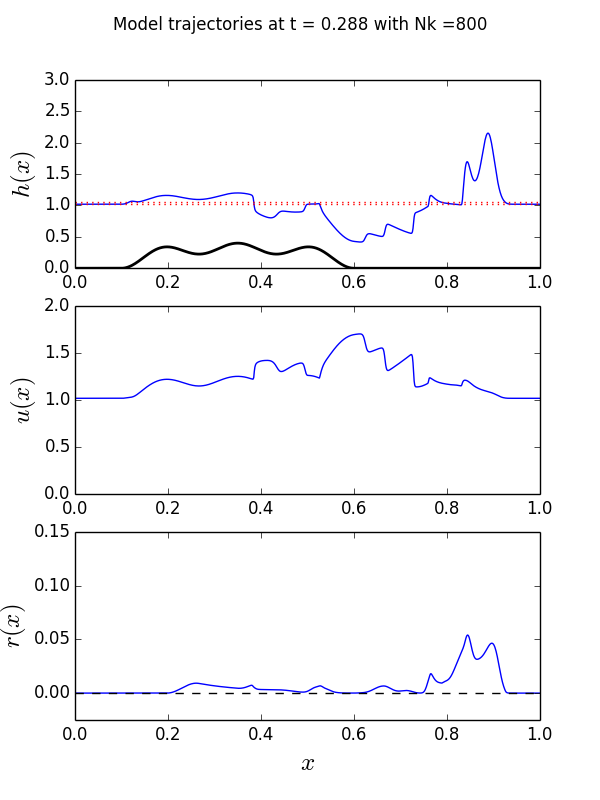
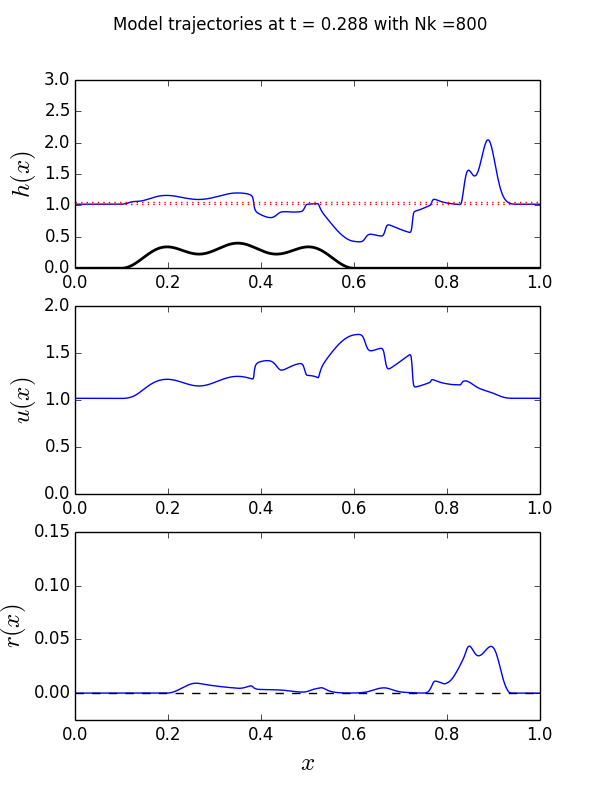
tkmac

diff --git a/plot_test_model.py b/plot_test_model.py
@@ -3,7 +3,7 @@
 #                   (T. Kent:  amttk@leeds.ac.uk)
 ##################################################################
 '''
-Uses simulation data generated in run_modRSW.py test cases. Goal: compare low- and high-res. simulations.
+Uses simulation data generated in run_modRSW.py test cases. Goal: compare simulations with different Nk.
     '''
 
 # generic modules
@@ -40,7 +40,7 @@ time = np.shape(U_fc)[2]
 for T in range(0,time):
 
     ### 6 panel subplot
-    print ' *** PLOT: trajectories for Nk = 200 and 800 ***'
+    print ' *** PLOT: trajectories for Nk = 200, 800 ***'
     fig, axes = plt.subplots(Neq, 2, figsize=(15,10))
     plt.suptitle("Comparing trajectories for Nk = 200 (left) and Nk = 800 (right)",fontsize=18)
 

diff --git a/parameters.py b/parameters.py
@@ -49,9 +49,7 @@ BC = 1 #periodic
 n_ens = 20                              # number of ensembles
 Nmeas = 6                               # number of cycles
 tn = 0.0                                # initial time
-#tmax = Nmeas*0.144                      # end time = Nmeas*1hr real time
-#dtmeasure = tmax/Nmeas                  # length of each window
-dtmeasure = 0.144
+dtmeasure = 0.144                       # ~ 1 hr in nondimensional time (L ~ 500km and V ~ 20m/s implies T ~ 25000s ~ 6.94hrs)
 tmax = Nmeas*dtmeasure
 tmeasure = dtmeasure
 assim_time = np.linspace(tn,tmax,Nmeas+1) # vector of times when system is observed

diff --git a/run_modRSW.py b/run_modRSW.py
@@ -26,7 +26,7 @@ from init_cond_modRSW import init_cond_topog_cos, init_cond_topog
 
 
 # CHOOSE resolution
-Nk = 200
+Nk = 800
 # CHOOSE INITIAL PROFILE FROM init_cond_modRSW:
 ic = init_cond_topog_cos
 

diff --git a/README.md b/README.md
@@ -188,7 +188,7 @@ First, the initial condition is generated and a figure saved in  ```cwd/test_mod
 CHECK data value: maximum h(x) at t = 0.288: 1.67033351233  at x =  0.8825
 ```
 
-Also check the saved figures in the directory ```test_model```. Compare with the figure below (```t2_Nk200```), and note the maximum h value and its location, as given above.
+Also check the saved figures in the directory ```test_model```. Compare with the figure below (```t2_Nk200```), and note the maximum h value and its location, as given above. The red dashed lines are the threshold heights Hc < Hr.
 
 ![t2_Nk200](figs/t2_Nk200.png)
 
@@ -198,7 +198,7 @@ python run_modRSW.py
 ```
 This simulation will take longer since the smaller grid-length requires a smaller time step for stability. As before, verify that the same numerical value for the height variable is obtained:
 ```
-CHECK data value: maximum h(x) at t = 0.288: 2.15336146511  at x =  0.888125
+CHECK data value: maximum h(x) at t = 0.288: 2.04596567749  at x =  0.888125
 ```
 Also check the saved figures, and compare with the figure below (```t2_Nk800```), again noting the maximum h value.
 
